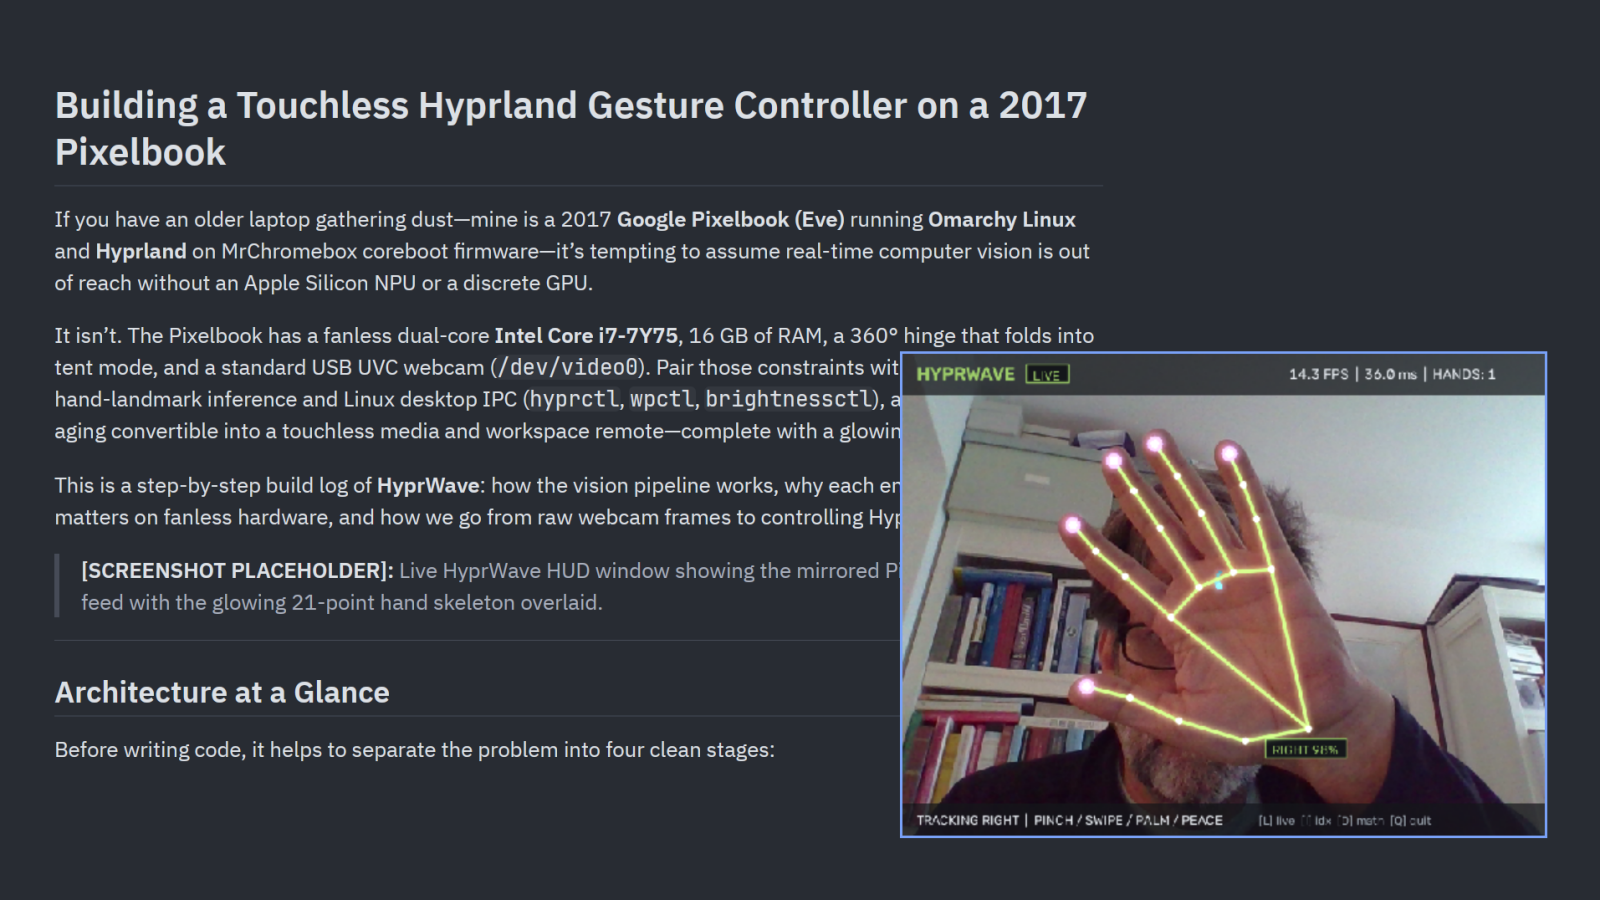
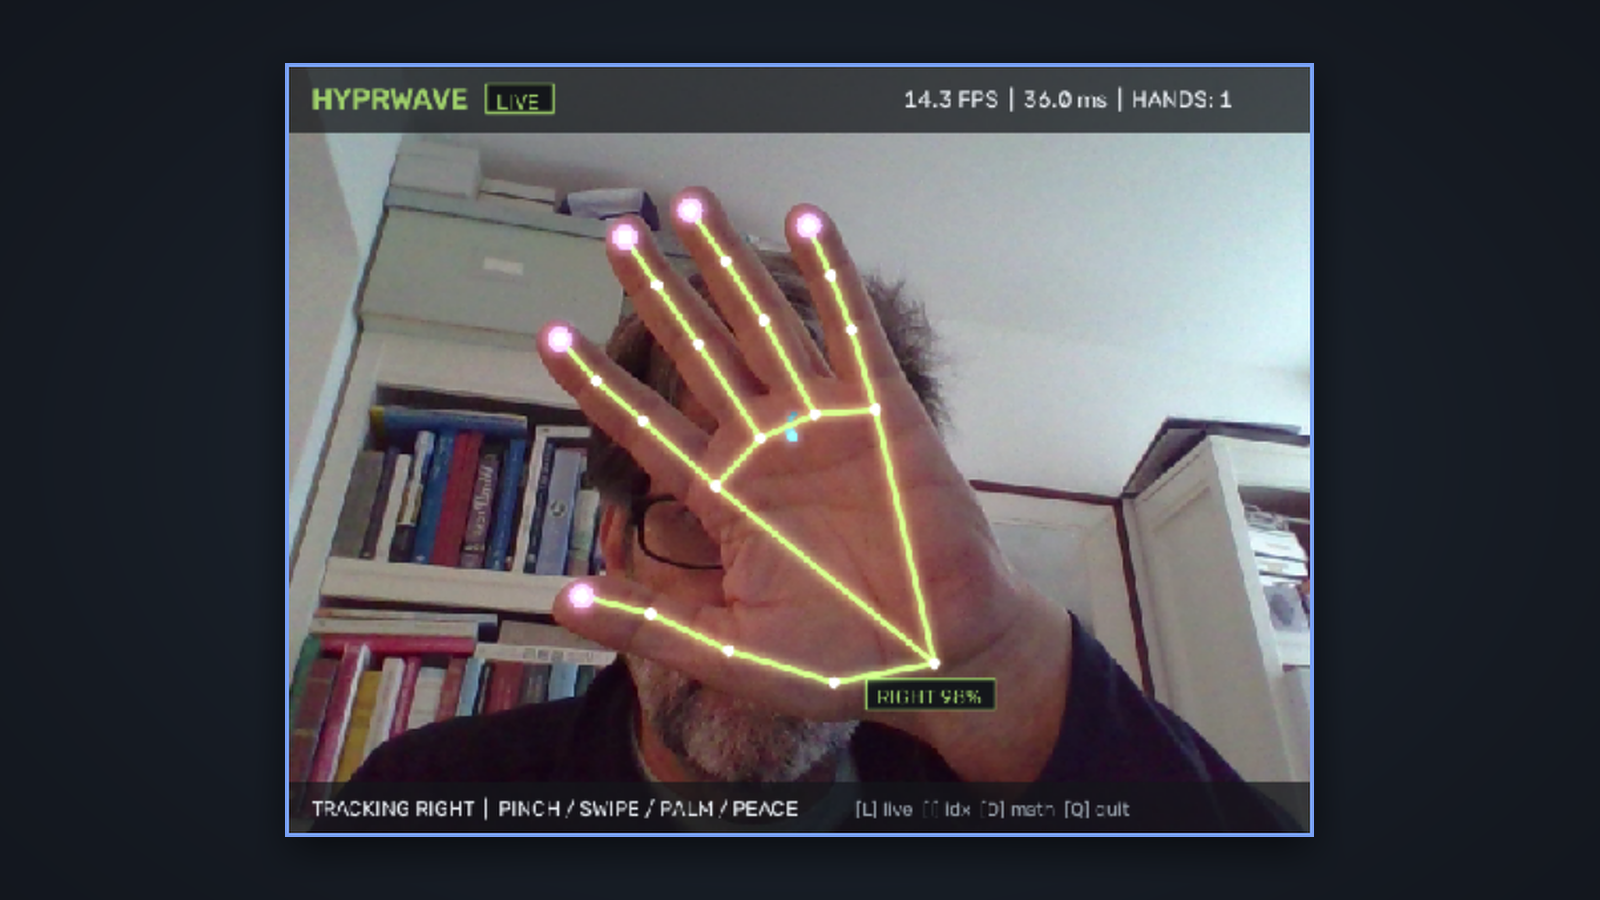
Update hero image to clean window-only capture and link live cgranier.com case study

diff --git a/README.md b/README.md
@@ -1,10 +1,10 @@
 # HyprWave
 
-![HyprWave live 21-point hand-tracking HUD floating pinned over Hyprland](docs/images/hyprwave-hero.png)
+![HyprWave live 21-point hand-tracking HUD window on a dark backdrop](docs/images/hyprwave-hero.png)
 
 A 100% local, real-time hand-gesture controller with a glowing Wayland HUD overlay for **Hyprland**—engineered to stay cool and responsive on a fanless dual-core **2017 Google Pixelbook (`i7-7Y75`, CPU-only)** running **Omarchy Linux**.
 
-* **Case Study (cgranier.com):** *Shipping Reliable Edge AI on a 2017 Laptop* *(link to published post)*
+* **Case Study (cgranier.com):** [Shipping Reliable Edge AI on a 2017 Laptop](https://cgranier.com/blog/2026/edge-ai-without-a-gpu/)
 * **Step-by-Step Build Walkthrough:** [`docs/tutorial.md`](docs/tutorial.md)
 
 ---

diff --git a/docs/tutorial.md b/docs/tutorial.md
@@ -1,6 +1,6 @@
 # Building a Touchless Hyprland Gesture Controller on a 2017 Pixelbook
 
-![HyprWave live 21-point hand-tracking HUD floating pinned over Hyprland on a 2017 Google Pixelbook](./images/hyprwave-hero.png)
+![HyprWave live 21-point hand-tracking HUD window on a dark backdrop](./images/hyprwave-hero.png)
 
 If you have an older laptop gathering dust—mine is a 2017 **Google Pixelbook (Eve)** running **Omarchy Linux** and **Hyprland** on MrChromebox coreboot firmware—it's tempting to assume real-time computer vision is out of reach without an Apple Silicon NPU or a discrete GPU.
 
